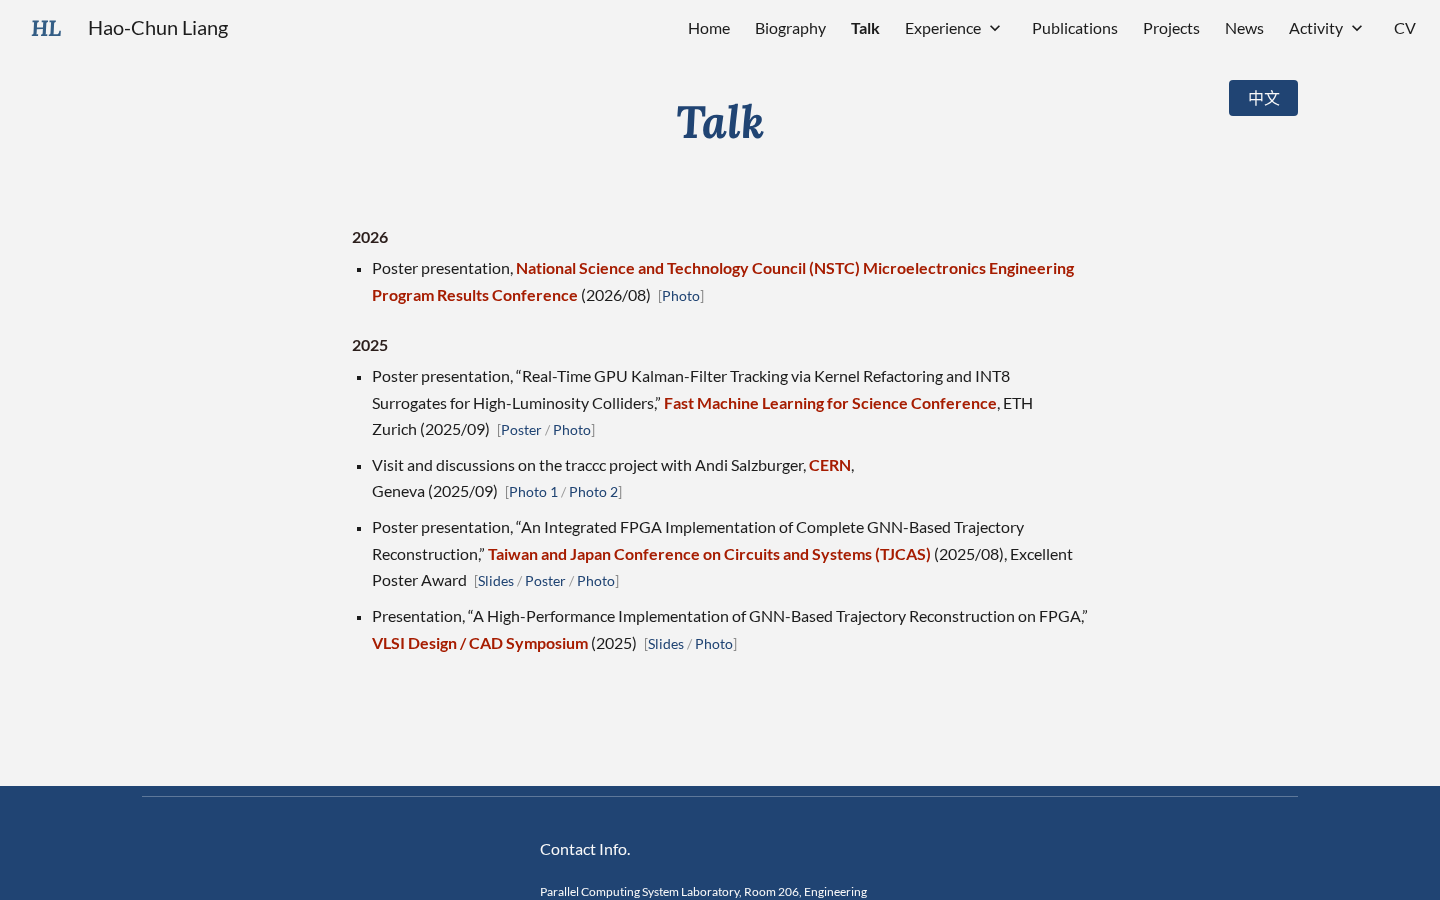
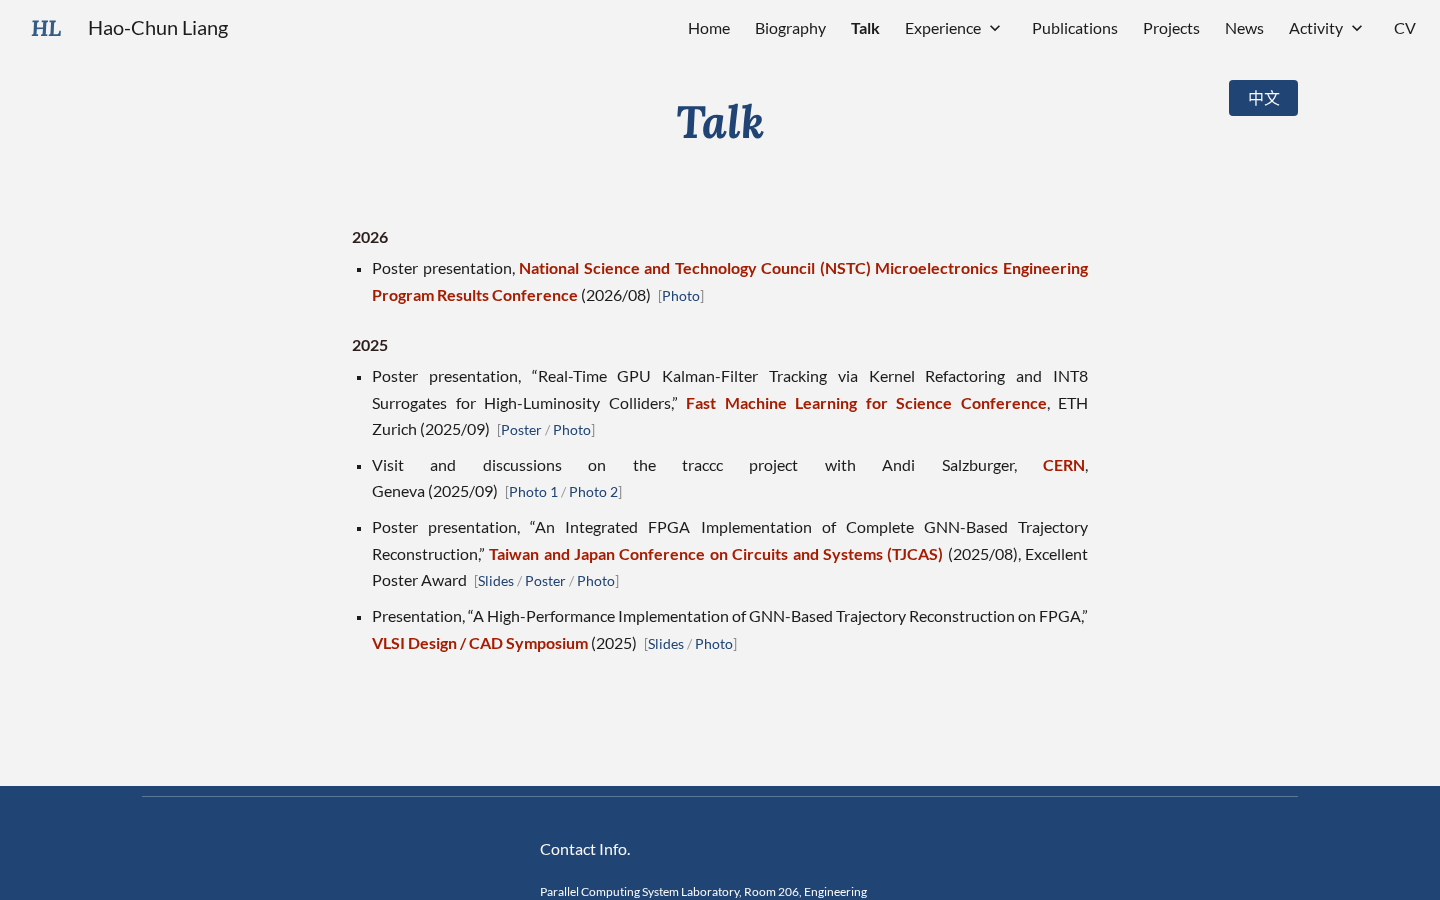
Justify list entries too: Talk, Experience, Awards, News, CV (CSS v29)
Wrapped title lines that sit right above a description stay left-aligned;
the description itself is justified.

Claude-Session: https://claude.ai/code/session_01YYQQxzKC9fV2djn5XGgtNn

diff --git a/assets/gsite.css b/assets/gsite.css
@@ -799,13 +799,19 @@ html[lang="zh-Hant-TW"] .cite-list > li {
   letter-spacing: 0.02em;
 }
 .bio p { margin-bottom: 1.1em; }
-/* Owner request: every prose paragraph is justified; hyphenation keeps English word gaps even.
-   Short one-entry list items (awards, experience, education, news), captions, the footer address, the narrow Home-column headline lists and the centered motto keep their alignment. */
+/* Owner request: all running text is justified (bio, paragraphs, list entries, citations, news, CV);
+   hyphenation keeps English word gaps even. Captions, the footer address, the narrow Home-column
+   headline lists and the centered motto keep their alignment. */
 .bio p,
 .section > p,
+.list > li,
 .cite-list > li,
+.news-list li,
 .list .sub:not(.inline) { text-align: justify; hyphens: auto; }
-html[lang="zh-Hant-TW"] :is(.bio p, .section > p, .cite-list > li, .list .sub) { text-justify: inter-character; }
+/* A wrapped title line that ends right before a block .sub is stretched by Chromium as if it were a full line */
+.list > li:has(> .sub:not(.inline)) { text-align: start; }
+.list > li:has(> .sub:not(.inline)) > .sub:not(.inline) { text-align: justify; }
+html[lang="zh-Hant-TW"] :is(.bio p, .section > p, .list > li, .cite-list > li, .news-list li, .list .sub) { text-justify: inter-character; }
 .list > li { margin-bottom: 0.6em; }
 .cite-list > li { margin-bottom: 0.9em; }
 .list .sub { margin-top: 0.15em; }

diff --git a/zh/index.html b/zh/index.html
@@ -29,7 +29,7 @@
   <link rel="preload" href="/assets/fonts/lato-700-latin.woff2" as="font" type="font/woff2" crossorigin>
   <link rel="preload" href="/assets/fonts/lora-700-italic-latin.woff2" as="font" type="font/woff2" crossorigin>
   <link rel="preload" href="/images/hehuan-banner.jpg" as="image" fetchpriority="high">
-  <link rel="stylesheet" href="/assets/gsite.css?v=28">
+  <link rel="stylesheet" href="/assets/gsite.css?v=29">
 <script>
 /* Old single-page links (/#unitrac, /#education, ...) now live on their own pages. */
 (function () {

diff --git a/index.html b/index.html
@@ -29,7 +29,7 @@
   <link rel="preload" href="/assets/fonts/lato-700-latin.woff2" as="font" type="font/woff2" crossorigin>
   <link rel="preload" href="/assets/fonts/lora-700-italic-latin.woff2" as="font" type="font/woff2" crossorigin>
   <link rel="preload" href="/images/hehuan-banner.jpg" as="image" fetchpriority="high">
-  <link rel="stylesheet" href="/assets/gsite.css?v=28">
+  <link rel="stylesheet" href="/assets/gsite.css?v=29">
   <script type="application/ld+json">
   {
     "@context": "https://schema.org",

diff --git a/activity/martial-arts/index.html b/activity/martial-arts/index.html
@@ -28,7 +28,7 @@
   <meta name="twitter:image" content="https://noyaboy.github.io/images/og-card-taipei.jpg">
   <link rel="preload" href="/assets/fonts/lato-700-latin.woff2" as="font" type="font/woff2" crossorigin>
   <link rel="preload" href="/assets/fonts/lora-700-italic-latin.woff2" as="font" type="font/woff2" crossorigin>
-  <link rel="stylesheet" href="/assets/gsite.css?v=28">
+  <link rel="stylesheet" href="/assets/gsite.css?v=29">
 </head>
 <body>
 

diff --git a/activity/pcs-lab/index.html b/activity/pcs-lab/index.html
@@ -28,7 +28,7 @@
   <meta name="twitter:image" content="https://noyaboy.github.io/images/og-card-taipei.jpg">
   <link rel="preload" href="/assets/fonts/lato-700-latin.woff2" as="font" type="font/woff2" crossorigin>
   <link rel="preload" href="/assets/fonts/lora-700-italic-latin.woff2" as="font" type="font/woff2" crossorigin>
-  <link rel="stylesheet" href="/assets/gsite.css?v=28">
+  <link rel="stylesheet" href="/assets/gsite.css?v=29">
 </head>
 <body>
 

diff --git a/activity/pop-dance-club/index.html b/activity/pop-dance-club/index.html
@@ -28,7 +28,7 @@
   <meta name="twitter:image" content="https://noyaboy.github.io/images/og-card-taipei.jpg">
   <link rel="preload" href="/assets/fonts/lato-700-latin.woff2" as="font" type="font/woff2" crossorigin>
   <link rel="preload" href="/assets/fonts/lora-700-italic-latin.woff2" as="font" type="font/woff2" crossorigin>
-  <link rel="stylesheet" href="/assets/gsite.css?v=28">
+  <link rel="stylesheet" href="/assets/gsite.css?v=29">
 </head>
 <body>
 

diff --git a/activity/travel/index.html b/activity/travel/index.html
@@ -28,7 +28,7 @@
   <meta name="twitter:image" content="https://noyaboy.github.io/images/og-card-taipei.jpg">
   <link rel="preload" href="/assets/fonts/lato-700-latin.woff2" as="font" type="font/woff2" crossorigin>
   <link rel="preload" href="/assets/fonts/lora-700-italic-latin.woff2" as="font" type="font/woff2" crossorigin>
-  <link rel="stylesheet" href="/assets/gsite.css?v=28">
+  <link rel="stylesheet" href="/assets/gsite.css?v=29">
 </head>
 <body>
 

diff --git a/biography/index.html b/biography/index.html
@@ -28,7 +28,7 @@
   <meta name="twitter:image" content="https://noyaboy.github.io/images/og-card-taipei.jpg">
   <link rel="preload" href="/assets/fonts/lato-700-latin.woff2" as="font" type="font/woff2" crossorigin>
   <link rel="preload" href="/assets/fonts/lora-700-italic-latin.woff2" as="font" type="font/woff2" crossorigin>
-  <link rel="stylesheet" href="/assets/gsite.css?v=28">
+  <link rel="stylesheet" href="/assets/gsite.css?v=29">
 </head>
 <body>
 

diff --git a/experience/awards/index.html b/experience/awards/index.html
@@ -28,7 +28,7 @@
   <meta name="twitter:image" content="https://noyaboy.github.io/images/og-card-taipei.jpg">
   <link rel="preload" href="/assets/fonts/lato-700-latin.woff2" as="font" type="font/woff2" crossorigin>
   <link rel="preload" href="/assets/fonts/lora-700-italic-latin.woff2" as="font" type="font/woff2" crossorigin>
-  <link rel="stylesheet" href="/assets/gsite.css?v=28">
+  <link rel="stylesheet" href="/assets/gsite.css?v=29">
 </head>
 <body>
 

diff --git a/experience/index.html b/experience/index.html
@@ -28,7 +28,7 @@
   <meta name="twitter:image" content="https://noyaboy.github.io/images/og-card-taipei.jpg">
   <link rel="preload" href="/assets/fonts/lato-700-latin.woff2" as="font" type="font/woff2" crossorigin>
   <link rel="preload" href="/assets/fonts/lora-700-italic-latin.woff2" as="font" type="font/woff2" crossorigin>
-  <link rel="stylesheet" href="/assets/gsite.css?v=28">
+  <link rel="stylesheet" href="/assets/gsite.css?v=29">
 </head>
 <body>
 

diff --git a/news/index.html b/news/index.html
@@ -28,7 +28,7 @@
   <meta name="twitter:image" content="https://noyaboy.github.io/images/og-card-taipei.jpg">
   <link rel="preload" href="/assets/fonts/lato-700-latin.woff2" as="font" type="font/woff2" crossorigin>
   <link rel="preload" href="/assets/fonts/lora-700-italic-latin.woff2" as="font" type="font/woff2" crossorigin>
-  <link rel="stylesheet" href="/assets/gsite.css?v=28">
+  <link rel="stylesheet" href="/assets/gsite.css?v=29">
 </head>
 <body>
 

diff --git a/projects/index.html b/projects/index.html
@@ -28,7 +28,7 @@
   <meta name="twitter:image" content="https://noyaboy.github.io/images/og-card-taipei.jpg">
   <link rel="preload" href="/assets/fonts/lato-700-latin.woff2" as="font" type="font/woff2" crossorigin>
   <link rel="preload" href="/assets/fonts/lora-700-italic-latin.woff2" as="font" type="font/woff2" crossorigin>
-  <link rel="stylesheet" href="/assets/gsite.css?v=28">
+  <link rel="stylesheet" href="/assets/gsite.css?v=29">
 </head>
 <body>
 
